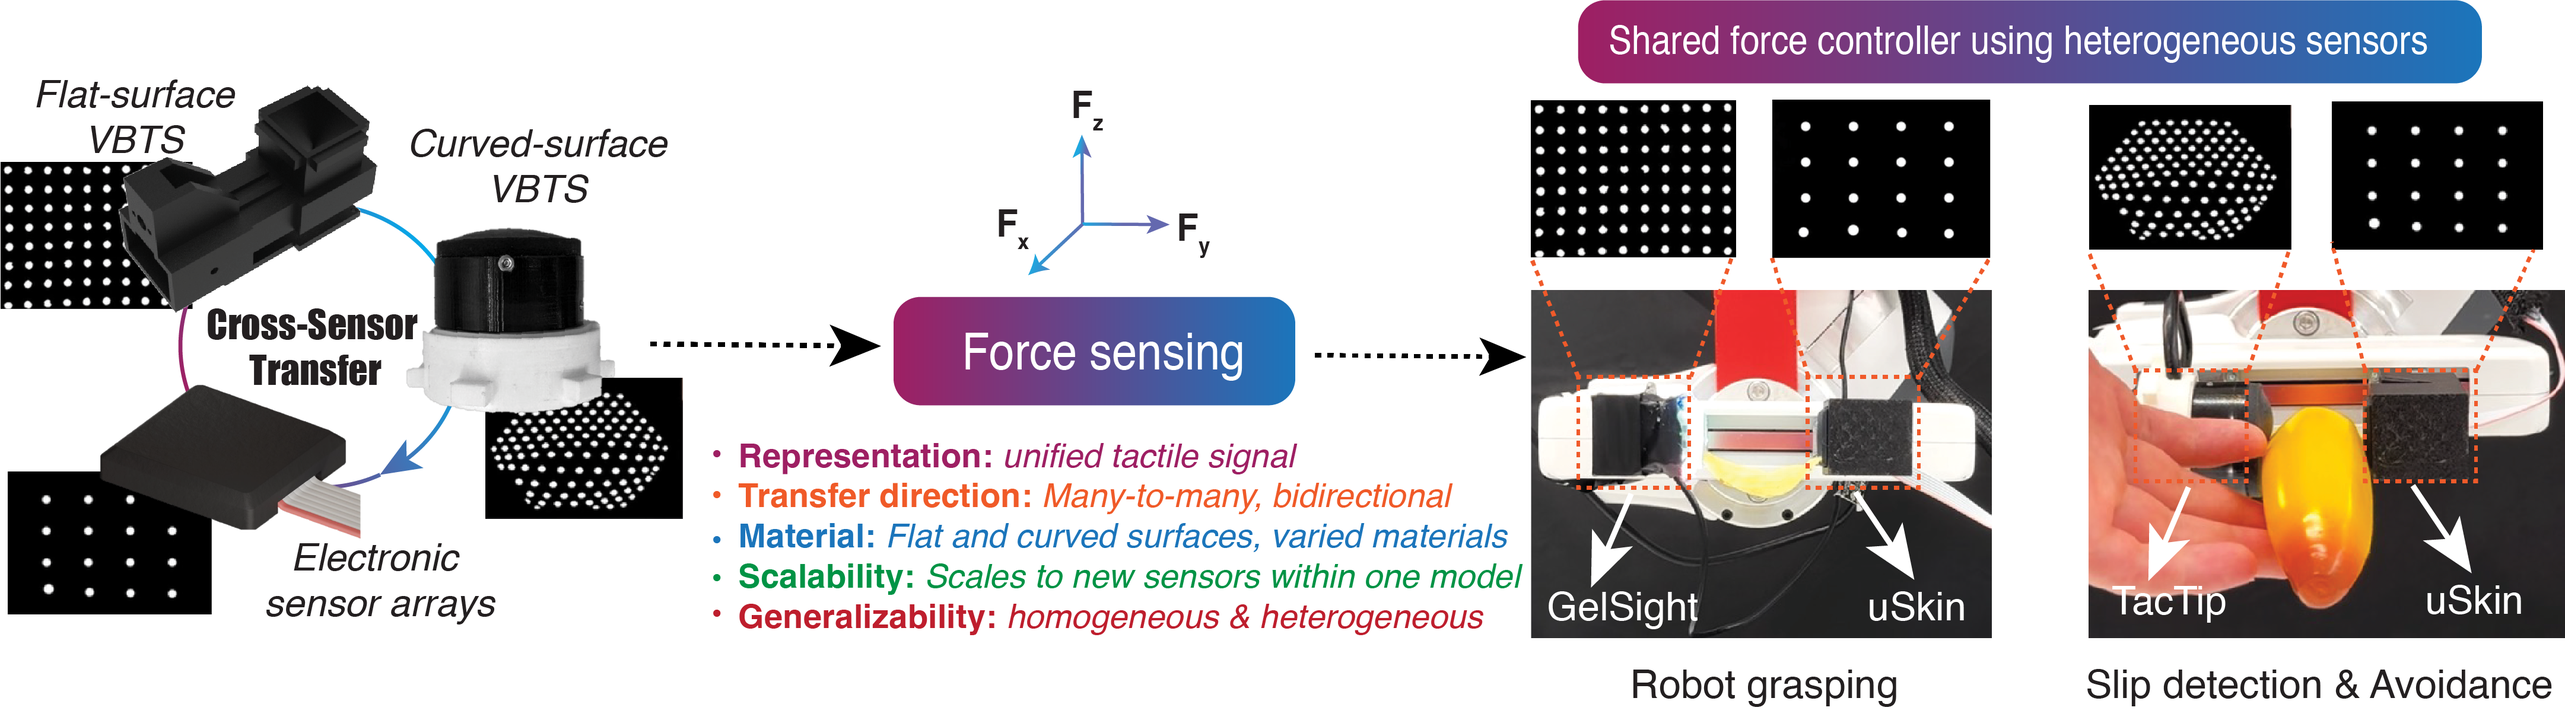
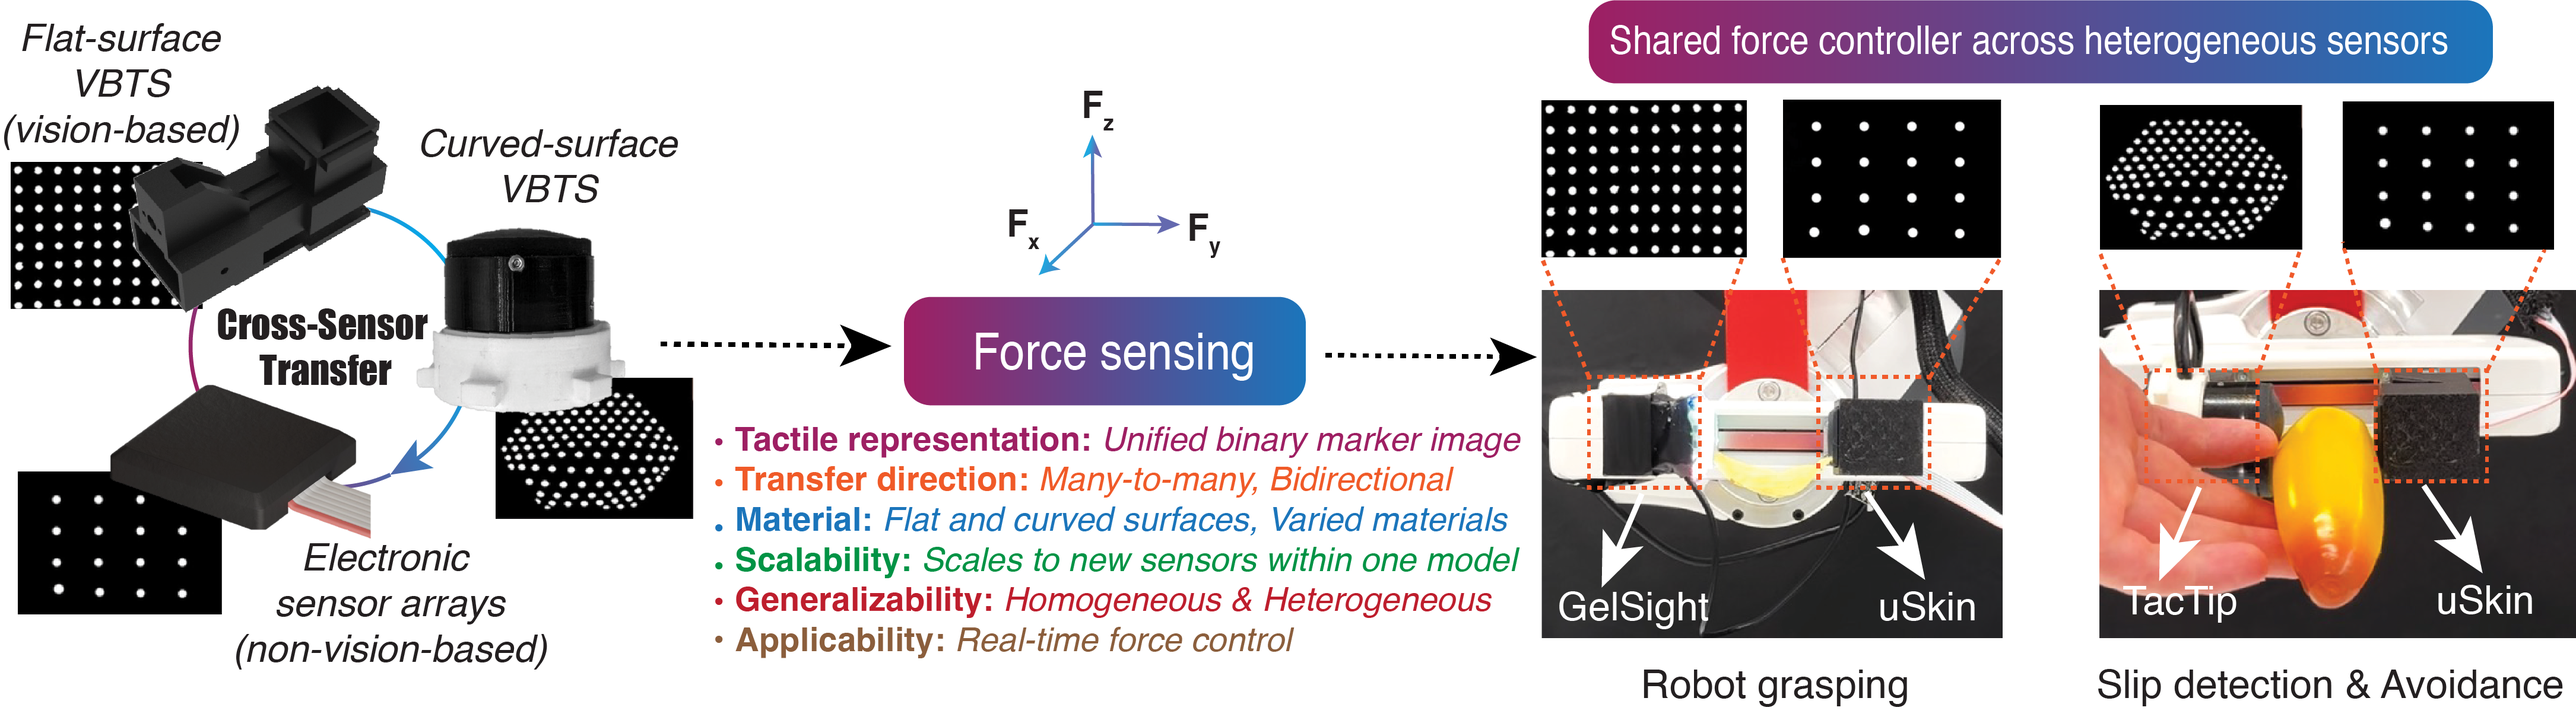
author

diff --git a/index.html b/index.html
@@ -154,7 +154,7 @@
   <section class="section">
     <div class="container is-max-desktop">
       <div class="box section-box">
-        <!-- <h2 class="title is-3 has-text-centered">Background</h2> -->
+        <h2 class="title is-3 has-text-centered">highlight</h2>
         <figure>
           <img src="images/first.png" alt="Background">
           <!-- <figcaption><strong style="color:#a00ee4"></figcaption> -->
